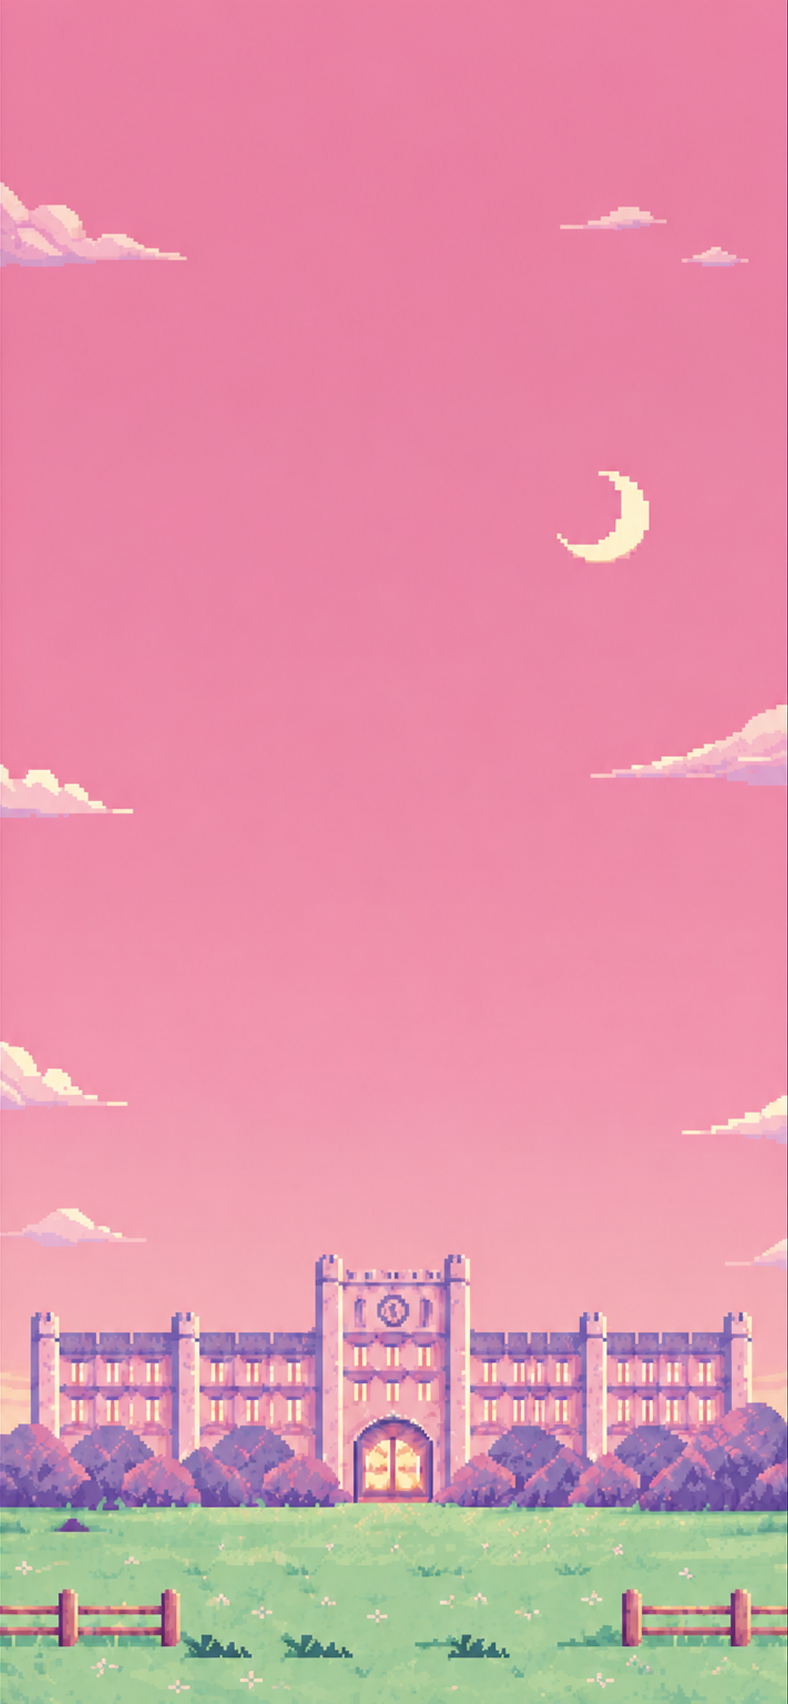
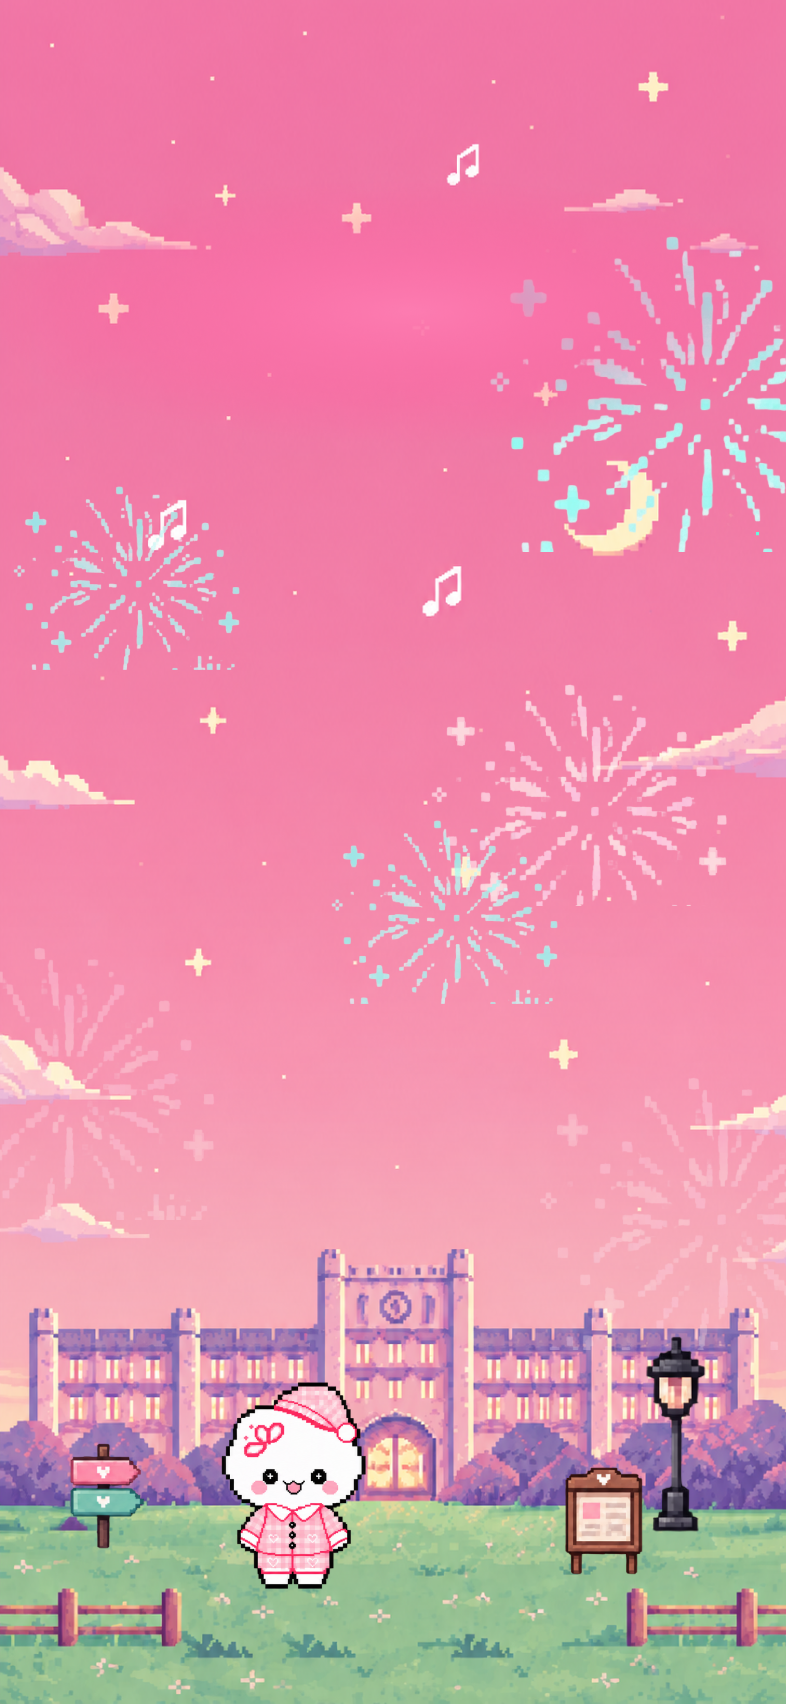
feat: 홈화면 구현

diff --git a/src/styles/Home.css b/src/styles/Home.css
@@ -1,0 +1,114 @@
+.home {
+  /* ⭐ 높이를 최소 100% (또는 100vh)로 설정해서 0px이 안 되게 만듭니다 */
+  width: 100%;
+  height: 100%;
+  min-height: 100vh; /* 부모 요소 크기에 맞춰 유동적으로 100% 또는 100vh 적용 */
+
+  /* 배경은 여백 없이 꽉 채움 */
+  background-image: url("../assets/images/background/home.png");
+  background-size: cover;
+  background-position: center;
+  background-repeat: no-repeat;
+
+  /* ⭐ "이 박스를 cqw 단위의 기준점으로 삼겠다"고 선언 */
+  container-type: inline-size;
+}
+
+/* 상단 타이틀 로고 스타일 */
+.home-logo {
+  position: absolute;
+  top: 10%; /* 상단 여백 (피그마 보면서 조절) */
+  left: 50%;
+  transform: translateX(-50%); /* 가로 가운데 정렬 */
+  width: 75%; /* 화면 너비의 75% 크기로 설정 (절대 안 잘림) */
+  max-width: 300px;
+  height: auto;
+}
+
+/* 구름 버튼 레이어 */
+.menu-container {
+  position: absolute;
+
+  top: 0;
+  left: 0;
+  width: 100%;
+  height: 100%;
+}
+
+/* 공통 구름 버튼 */
+.cloud-btn {
+  position: absolute;
+  background-image: url("../assets/images/home/cloudBtn.png");
+  background-size: contain;
+  background-repeat: no-repeat;
+  background-position: center;
+  background-color: transparent;
+
+  border: none;
+  cursor: pointer;
+
+  color: #000;
+  font-style: normal;
+  font-weight: 400;
+  line-height: 150%; /* 27px */
+  letter-spacing: -0.36px;
+
+  padding-top: 2cqw;
+
+  transition: transform 0.05s ease-in-out;
+}
+
+.cloud-btn:active {
+  transform: translateY(3px); /* 3px 아래로 눌림 */
+  filter: brightness(0.92); /* 버튼 색상이 살짝 어두워져 눌린 감각 전달 */
+}
+
+/* 구름 위치 (%) */
+.booth-info {
+  width: 37cqw;
+  height: 19.25cqw;
+
+  top: 30%;
+  left: 12%;
+}
+
+.booth-map {
+  width: 46.46cqw;
+  height: 24.17cqw;
+
+  top: 36%;
+  left: 45%;
+}
+
+.timetable {
+  width: 36.64cqw;
+  height: 20.14cqw;
+
+  top: 47%;
+  left: 9%;
+}
+
+.somnema {
+  width: 34.45cqw;
+  height: 17.92cqw;
+
+  top: 53.5%;
+  left: 52%;
+}
+
+.som-talk {
+  width: 32.42cqw;
+  height: 16.87cqw;
+
+  top: 63%;
+  left: 20%;
+}
+
+.credits {
+  width: 29.48cqw;
+  height: 15.34cqw;
+
+  font-size: 4cqw;
+  top: 70%;
+  left: 53%;
+}

diff --git a/src/pages/Home.jsx b/src/pages/Home.jsx
@@ -1,0 +1,56 @@
+import React from "react";
+import { useNavigate } from "react-router-dom";
+
+import "../styles/Home.css";
+import titleLogo from "../assets/images/home/title.png"; // 타이틀 로고 불러오기
+
+export default function Home() {
+  const navigate = useNavigate();
+
+  //   임의로 페이지 작성함. 나중에 변경시 수정
+
+  return (
+    <div className="home">
+      <img className="home-logo" src={titleLogo} alt="Som Thing in the Night" />
+
+      <nav className="menu-container">
+        <button
+          className="cloud-btn booth-info"
+          onClick={() => navigate("/booth-info")}
+        >
+          부스소개
+        </button>
+        <button
+          className="cloud-btn booth-map"
+          onClick={() => navigate("/booth-map")}
+        >
+          부스배치도
+        </button>
+        <button
+          className="cloud-btn timetable"
+          onClick={() => navigate("/timetable")}
+        >
+          타임테이블
+        </button>
+        <button
+          className="cloud-btn somnema"
+          onClick={() => navigate("/somnema")}
+        >
+          솜네마
+        </button>
+        <button
+          className="cloud-btn som-talk"
+          onClick={() => navigate("/som-talk")}
+        >
+          솜톡
+        </button>
+        <button
+          className="cloud-btn credits"
+          onClick={() => navigate("/credits")}
+        >
+          만든이들
+        </button>
+      </nav>
+    </div>
+  );
+}

diff --git a/src/App.jsx b/src/App.jsx
@@ -2,6 +2,7 @@ import "./styles/App.css";
 import PerformanceTimetable from "./pages/PerformanceTimetable.jsx";
 import PerformanceDetail from "./pages/PerformanceDetail.jsx";
 import FoodTruckDetail from "./pages/FoodTruckDetail.jsx";
+import Home from "./pages/home.jsx";
 
 function App() {
   return (
@@ -9,7 +10,7 @@ function App() {
       <div className="mobile-frame">
         <div className="mobile-content">
           <div className="app-content">
-            <FoodTruckDetail />
+            <Home />
           </div>
         </div>
       </div>
